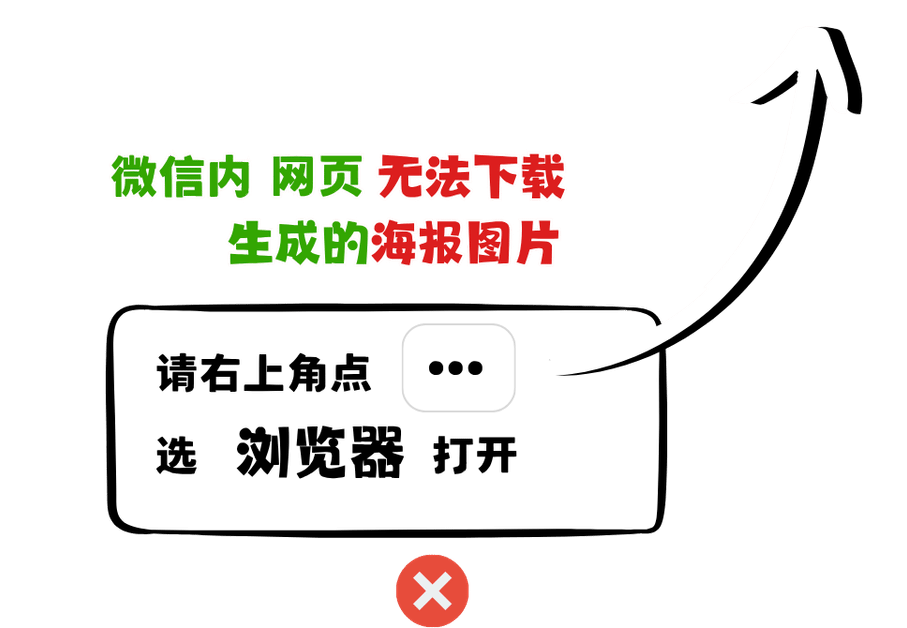
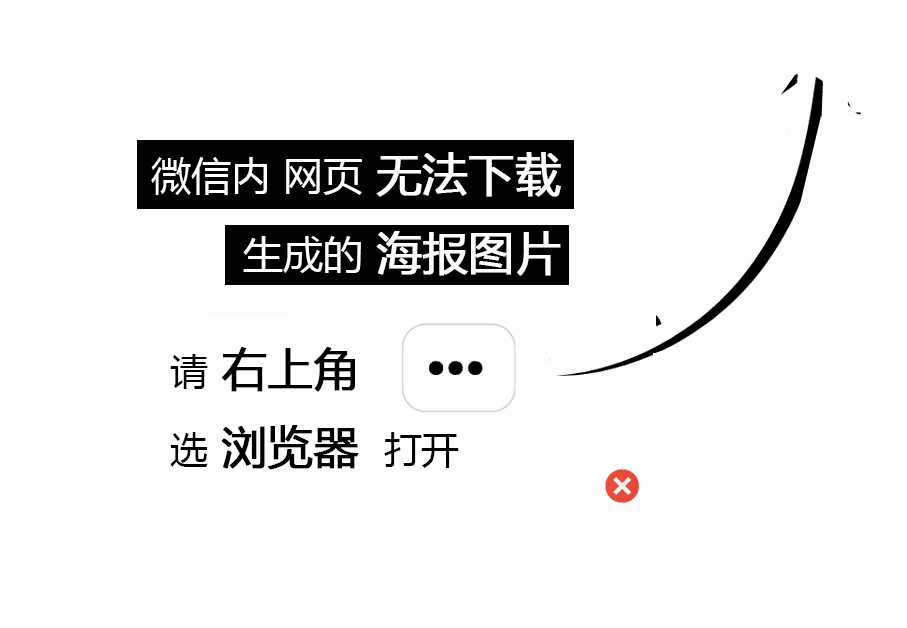
666

diff --git a/postdiy/business/solutions.html b/postdiy/business/solutions.html
@@ -163,13 +163,24 @@
         this.initCaseVisibility();
       },
 
-      // ===== 案例区域条件显示（视口20%-50%区域才显示） =====
+      // ===== 案例区域条件显示（红色箭头触发线 + 0.5秒停留） =====
       _caseVisRAF: null,
       _activeSubRow: null,
+      _pendingRow: null,       // 待激活行（与箭头重叠中，等待0.5秒确认）
+      _pendingTimer: null,     // 0.5秒停留确认计时器
 
       initCaseVisibility: function() {
         var self = this;
-        // 滚动时用 requestAnimationFrame 节流
+
+        // 创建固定红色箭头指示器（指向右边，位于左侧距顶20%）
+        if (!document.getElementById('caseTriggerArrow')) {
+          var arrow = document.createElement('div');
+          arrow.id = 'caseTriggerArrow';
+          arrow.className = 'case-trigger-arrow';
+          document.body.appendChild(arrow);
+        }
+
+        // 滚动时用 rAF 节流，检测哪个行与箭头重叠
         window.addEventListener('scroll', function() {
           if (self._caseVisRAF) return;
           self._caseVisRAF = requestAnimationFrame(function() {
@@ -191,42 +202,56 @@
 
       updateCaseVisibility: function() {
         var rows = document.querySelectorAll('.chapter-sub-row');
-        if (!rows.length) return;
+        var arrow = document.getElementById('caseTriggerArrow');
+        if (!rows.length) {
+          if (arrow) arrow.style.display = 'none';
+          return;
+        }
+        if (arrow) arrow.style.display = '';
 
-        var vh = window.innerHeight;
-        var topThreshold = vh * 0.15;  // 20%
-        var bottomThreshold = vh * 0.5; // 50%
-        var bestRow = null;
-        var bestDistance = Infinity;
+        // 箭头垂直中心 = 视口顶部 20% 处
+        var arrowY = window.innerHeight * 0.2;
 
+        // 找当前与箭头垂直位置重叠的行（行 top ≤ 箭头Y ≤ 行 bottom）
+        var overlappingRow = null;
         for (var i = 0; i < rows.length; i++) {
           var rect = rows[i].getBoundingClientRect();
-          var center = rect.top + rect.height / 2;
+          if (rect.top <= arrowY && rect.bottom >= arrowY) {
+            overlappingRow = rows[i];
+            break;
+          }
+        }
 
-          // 检查中心是否在 20%-50% 区间
-          if (center >= topThreshold && center <= bottomThreshold) {
-            // 选距离区间中心最近的
-            var zoneCenter = (topThreshold + bottomThreshold) / 2;
-            var dist = Math.abs(center - zoneCenter);
-            if (dist < bestDistance) {
-              bestDistance = dist;
-              bestRow = rows[i];
+        // 重叠的行已是激活行：取消任何待激活，无需操作
+        if (overlappingRow === this._activeSubRow) {
+          if (this._pendingTimer) { clearTimeout(this._pendingTimer); this._pendingTimer = null; }
+          this._pendingRow = null;
+          return;
+        }
+
+        // 有新的行开始与箭头重叠：启动 0.5 秒停留确认
+        if (overlappingRow && overlappingRow !== this._pendingRow) {
+          this._pendingRow = overlappingRow;
+          var self = this;
+          if (this._pendingTimer) clearTimeout(this._pendingTimer);
+          this._pendingTimer = setTimeout(function() {
+            // 0.5 秒后再次确认该行仍与箭头重叠
+            if (self._pendingRow && document.body.contains(self._pendingRow)) {
+              var r = self._pendingRow.getBoundingClientRect();
+              if (r.top <= arrowY && r.bottom >= arrowY) {
+                // 仍重叠 → 激活该行，移除旧的
+                if (self._activeSubRow && self._activeSubRow !== self._pendingRow) {
+                  self._activeSubRow.classList.remove('in-view');
+                }
+                self._activeSubRow = self._pendingRow;
+                self._pendingRow.classList.add('in-view');
+              }
             }
-          }
+            self._pendingRow = null;
+            self._pendingTimer = null;
+          }, 500);
         }
-
-        // 互斥：只显示一个行的案例区域
-        if (bestRow !== this._activeSubRow) {
-          // 移除旧的高亮
-          if (this._activeSubRow) {
-            this._activeSubRow.classList.remove('in-view');
-          }
-          // 设置新的高亮
-          if (bestRow) {
-            bestRow.classList.add('in-view');
-          }
-          this._activeSubRow = bestRow;
-        }
+        // 若当前无行与箭头重叠，保持现有激活状态不变
       },
 
       // 加载篇章数据
@@ -450,6 +475,8 @@
 
         // 重置案例可见性状态，重新检测
         this._activeSubRow = null;
+        if (this._pendingTimer) { clearTimeout(this._pendingTimer); this._pendingTimer = null; }
+        this._pendingRow = null;
         var self = this;
         setTimeout(function() { self.updateCaseVisibility(); }, 100);
       },

diff --git a/postdiy/business/css/page-solutions.css b/postdiy/business/css/page-solutions.css
@@ -296,7 +296,7 @@
   background: #f0f0f0;
 }
 .chapter-sub-stat-label {
-  font-size: 16px;
+  font-size: 14px;
   color: #000;
   /* display: block; */
   margin-bottom: 2px;
@@ -327,7 +327,24 @@
   display: none;
 }
 
-/* ===== éšæœºæ¡ˆä¾‹å±•ç¤ºåŒºåŸŸ ===== */
+/* ===== 案例触发箭头指示器（左侧固定，指向右边，距顶20%） ===== */
+.case-trigger-arrow {
+  position: fixed;
+  left: 1px;
+  top: 20%;
+  transform: translateY(-50%);
+  width: 0;
+  border-radius: 15px;
+  height: 0;
+  border-top: 11px solid transparent;
+  border-bottom: 11px solid transparent;
+  border-left: 25px solid #d42020;
+  z-index: 100;
+  pointer-events: none;
+  filter: drop-shadow(0 1px 3px rgba(0,0,0,0.25));
+}
+
+/* ===== éšæœºæ¡ˆä¾‹å±•ç¤ºåŒºåŸŸ ===== */
 .chapter-cases-random {
   max-height: 0;
   opacity: 0;
@@ -457,7 +474,7 @@
 }
 .chapter-case-title {
   flex: 1;
-  font-size: 15px;
+  font-size: 14px;
   color: var(--biz-text-primary);
   overflow: hidden;
   text-overflow: ellipsis;
